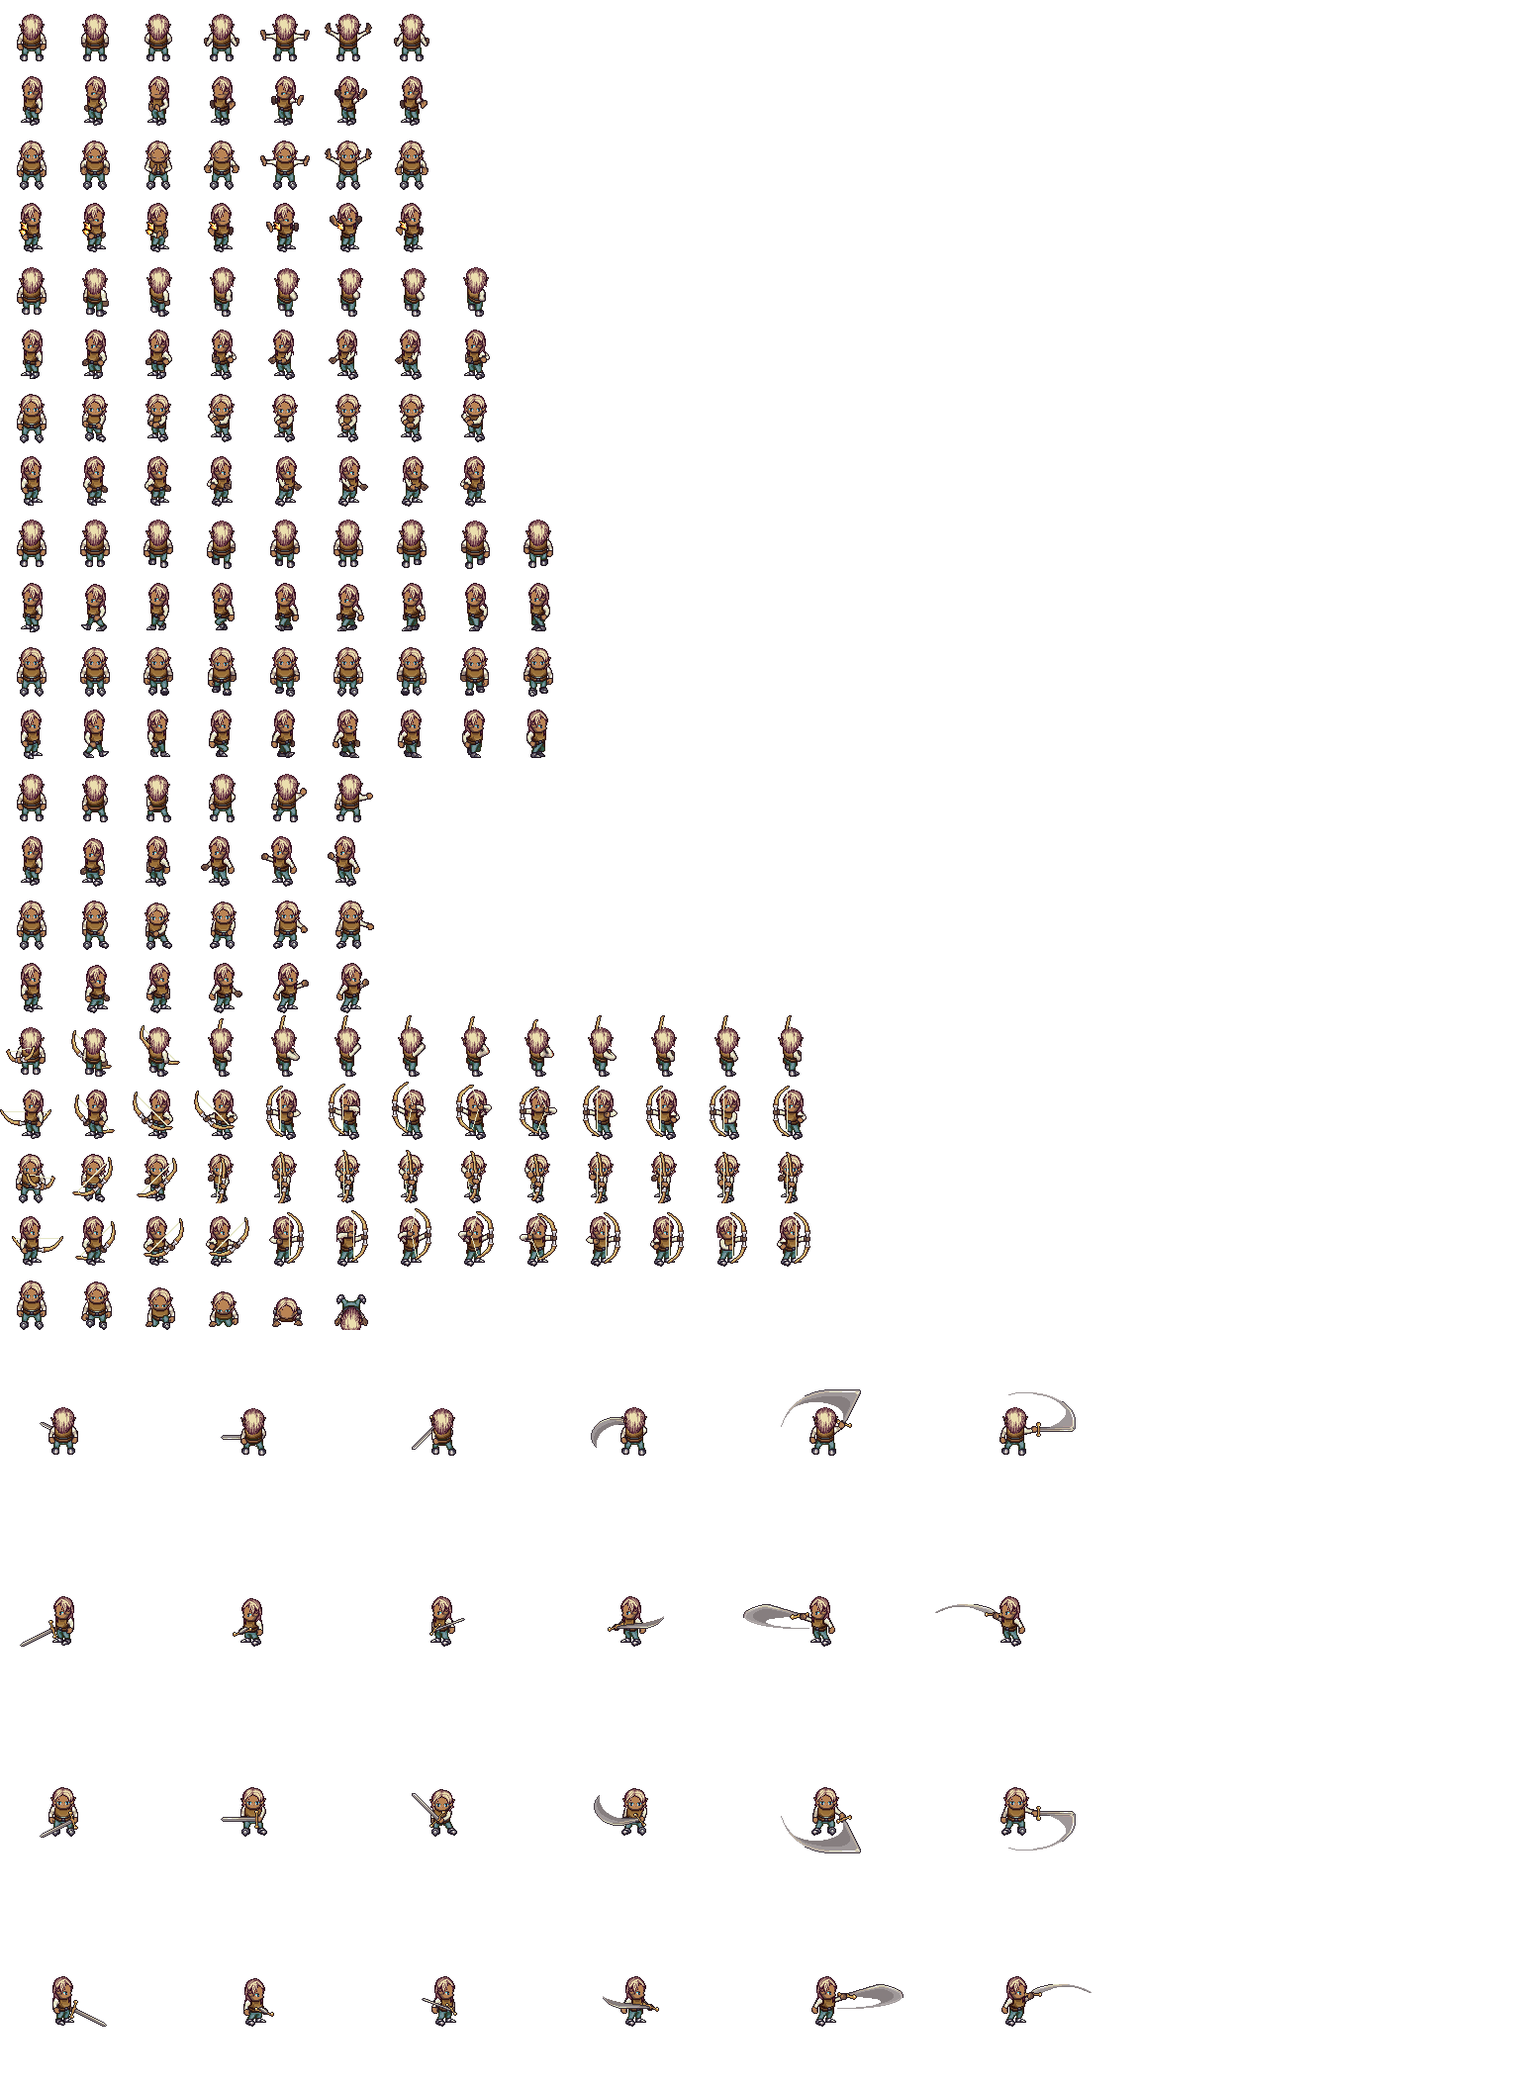
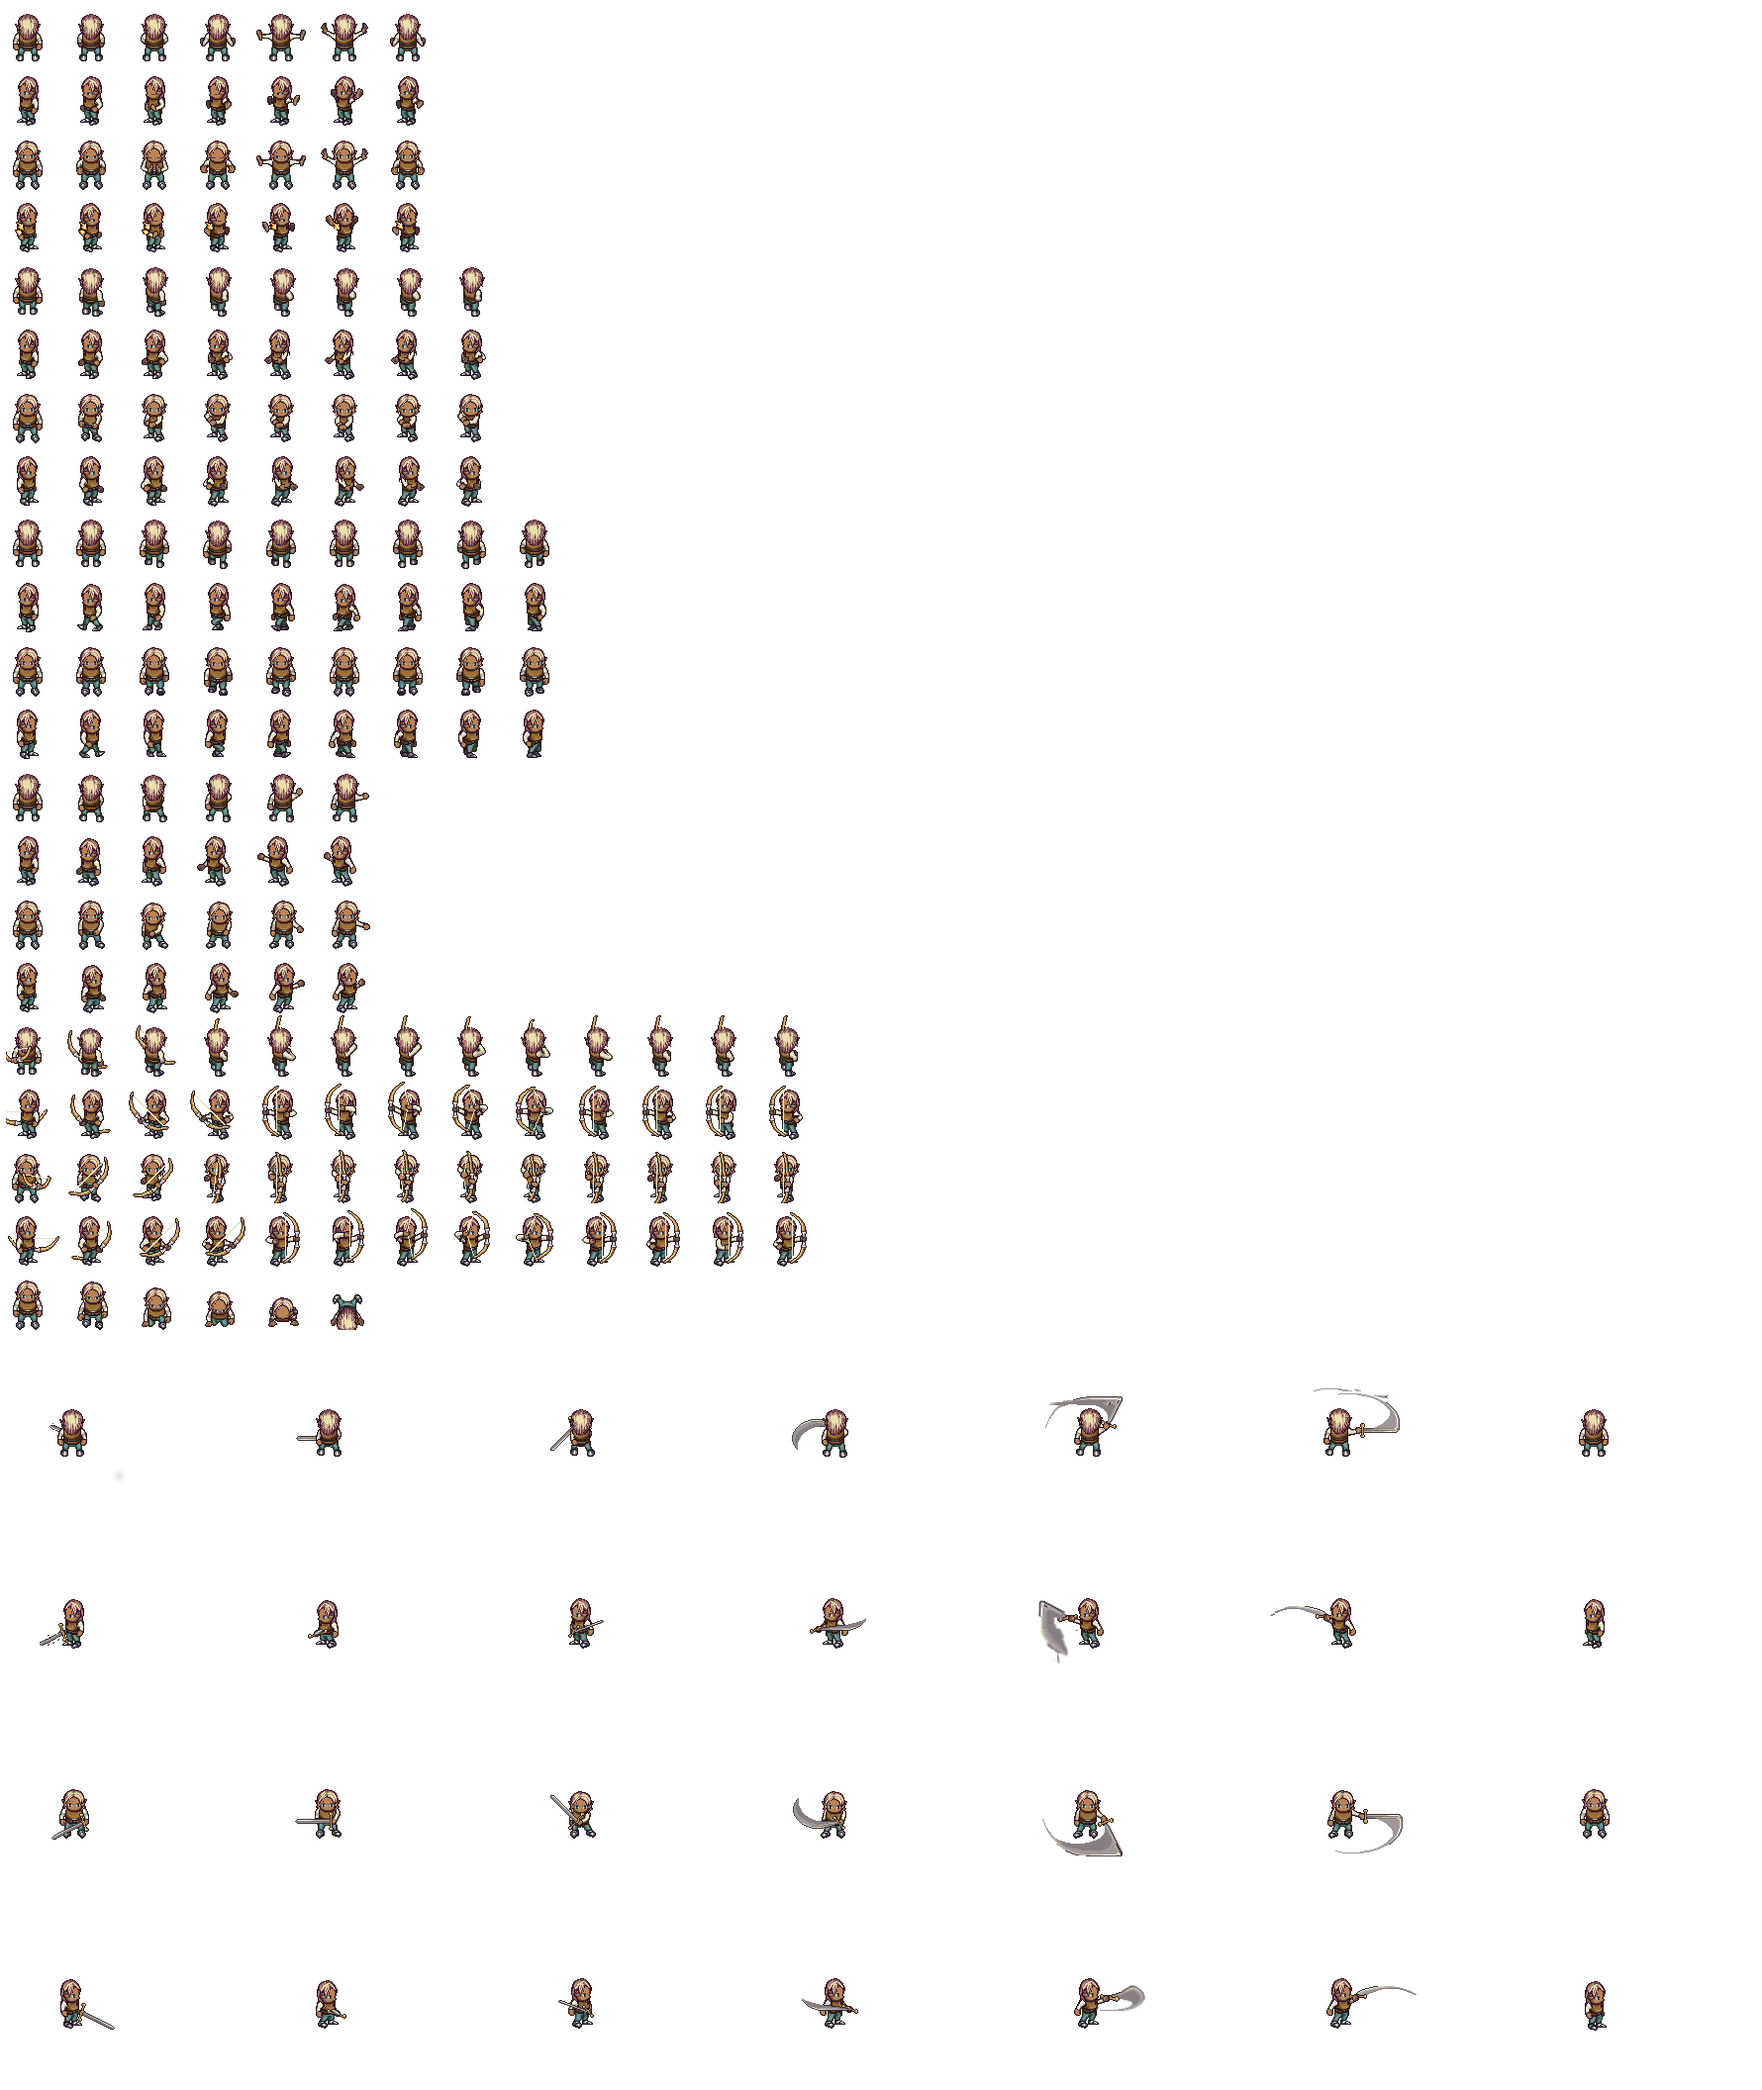
Bug fixes from new longsword animation. Made a fix where the sword attack animation from the next frame would sneak into the current frames (resulting in sword tips coming in a few cm from the player randomly). Made player stop disappearing when shooting ranged weapons. Made wallhugger/wallhugger an

diff --git a/CleanGame/Game/Core/Systems/GameLogicSystem.cs b/CleanGame/Game/Core/Systems/GameLogicSystem.cs
@@ -100,7 +100,7 @@ namespace CleanGame.Game.Core.Systems
                     break;
             }
 
-            Entity e = game.entityFactory.CreateSpawner(600, 600, new Rectangle(0, 0, 46, 46), "LandmineDropper", "LandmineWeapon", numMelee + 3, new TimeSpan(0, 0, 0, 0, 500));
+            Entity e = game.entityFactory.CreateSpawner(600, 600, new Rectangle(0, 0, 46, 46), "LandmineDropper", "LandmineWeapon", numMelee + 1, new TimeSpan(0, 0, 0, 0, 500));
             e.Refresh();
             spawners.Add(e);
             
@@ -108,7 +108,7 @@ namespace CleanGame.Game.Core.Systems
             e.Refresh();
             spawners.Add(e);
 
-            /** Ling's debug
+      
             e = game.entityFactory.CreateSpawner(100, 300, new Rectangle(0, 0, 46, 46), "RangedMonster", "Monsterbow", numRanged / 2, new TimeSpan(0, 0, 0, 0, 500));
             e.Refresh();
             spawners.Add(e);
@@ -128,11 +128,11 @@ namespace CleanGame.Game.Core.Systems
             spawners.Add(e);
             e = game.entityFactory.CreateSpawner(300, 200, new Rectangle(0, 0, 46, 46), "Grenadier", "GrenadeLauncher", 1, new TimeSpan(0, 0, 0, 0, 500));
             e.Refresh();
-            spawners.Add(e);
+            spawners.Add(e); 
 
             e = game.entityFactory.CreateSpawner(300, 200, new Rectangle(0, 0, 46, 46), "WallHugger", "WallHuggerWeapon", 1, new TimeSpan(0, 0, 0, 0, 500));
             e.Refresh();
-            spawners.Add(e); */
+            spawners.Add(e);
 
             //show buy phase before starting
             //if (CurrentLevel > 1)
